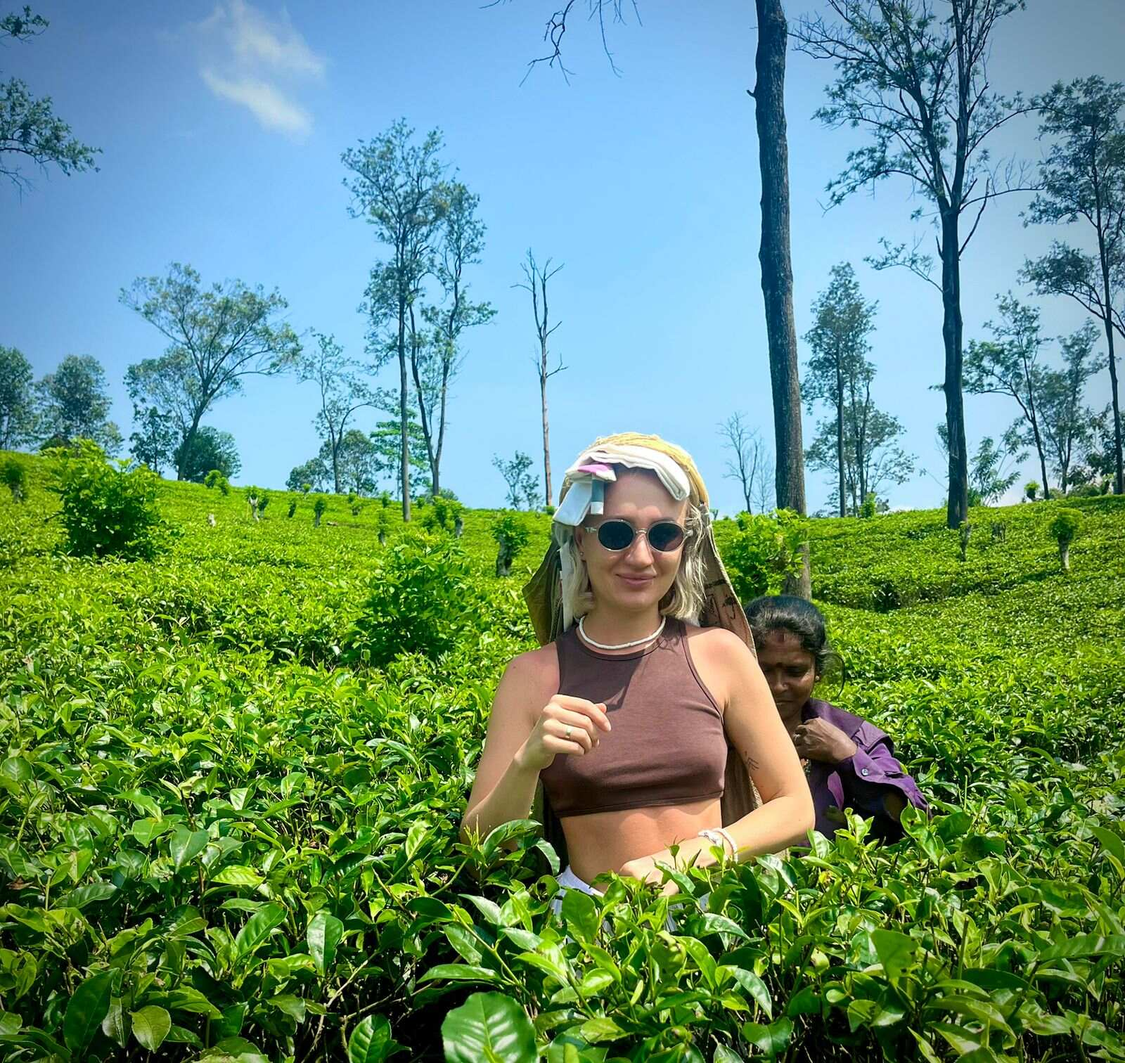
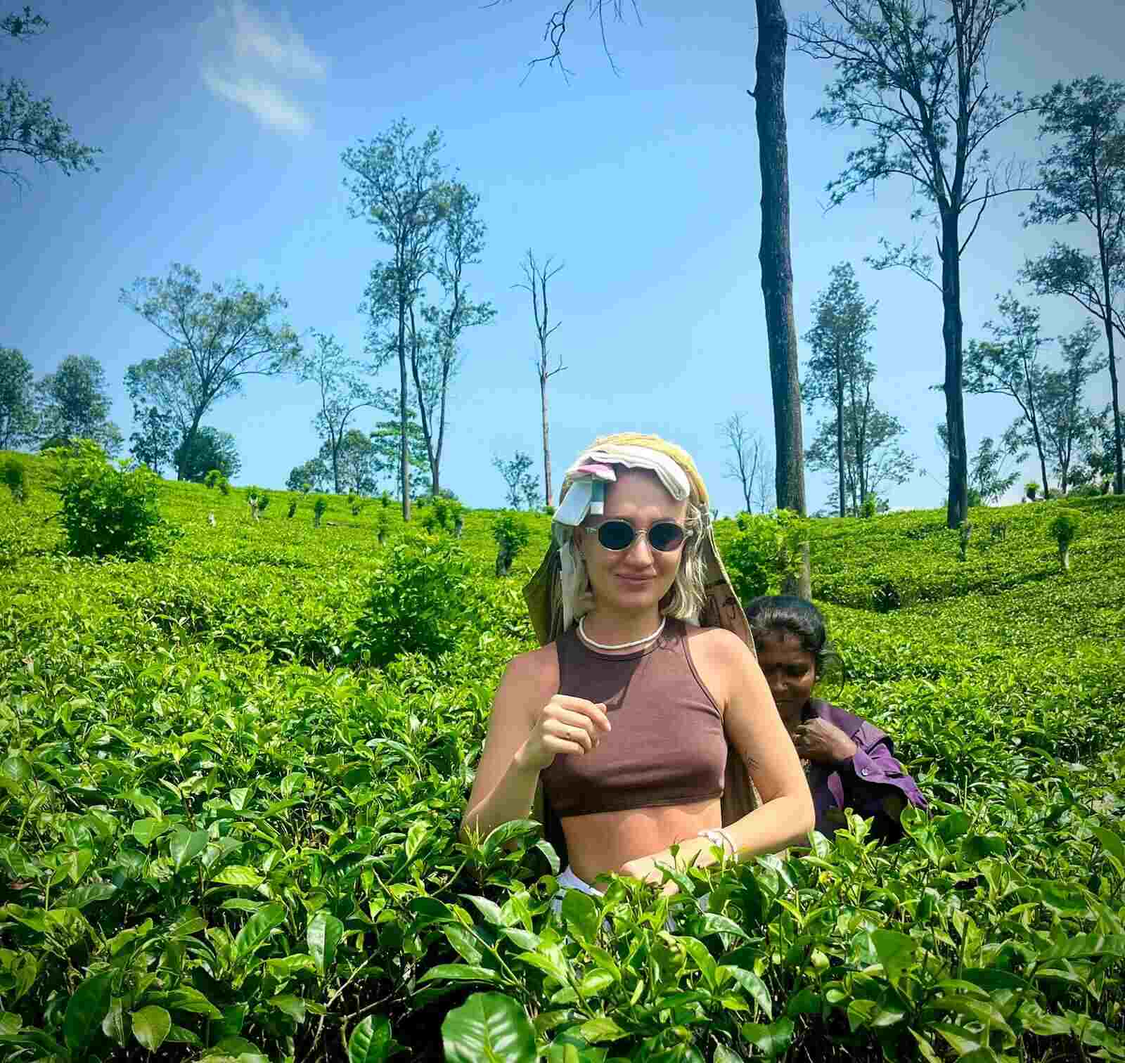
..

diff --git a/src/app/mainComponents/tour-packages/roundTours/seven-days-tour-component/seven-days-tour-component.ts b/src/app/mainComponents/tour-packages/roundTours/seven-days-tour-component/seven-days-tour-component.ts
@@ -31,7 +31,7 @@ import { SeoService } from '../../../../../seo.service';
 })
 export class SevenDaysTourComponent implements OnInit, OnDestroy {
   images: string[] = [
-    'assets/img/5daysTours/1.jpeg',
+    'assets/img/5daysTours/1.jpg',
     'assets/img/5daysTours/18.jpg',
     'assets/img/5daysTours/28.png',
     'assets/img/5daysTours/24.jpg',
